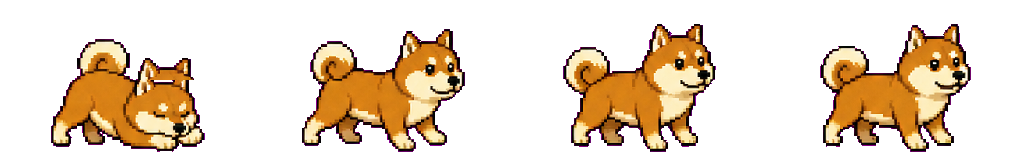
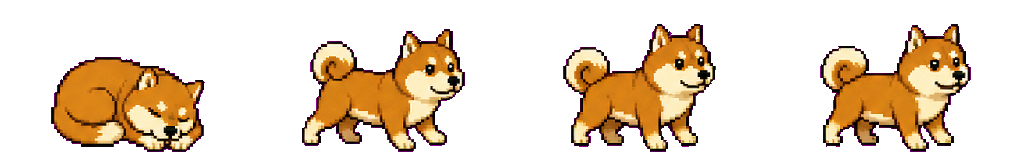
fix: remove overlapping ear from enter animation

Changed region(s): [[0.0312, 0.2188, 0.2188, 0.9688]]

diff --git a/js/main.js b/js/main.js
@@ -53,9 +53,9 @@ document.addEventListener("DOMContentLoaded", () => {
     if (document.querySelector('link[data-desktop-pet-style]')) return;
     const petStyles = document.createElement("link");
     petStyles.rel = "stylesheet";
-    petStyles.href = new URL("css/desktop-pet.css?v=1.8.4", siteRoot).href;
+    petStyles.href = new URL("css/desktop-pet.css?v=1.8.5", siteRoot).href;
     petStyles.dataset.desktopPetStyle = "true";
-    const petModuleUrl = new URL("js/desktop-pet.js?v=1.8.4", siteRoot).href;
+    const petModuleUrl = new URL("js/desktop-pet.js?v=1.8.5", siteRoot).href;
     // 样式就绪后再加载组件，避免慢速网络下未应用 CSS 的桌宠短暂闪现。
     petStyles.addEventListener("load", () => {
       void import(petModuleUrl).catch((error) => console.error(`桌宠模块加载失败：${petModuleUrl}`, error));

diff --git a/js/desktop-pet.js b/js/desktop-pet.js
@@ -148,7 +148,7 @@ var SpriteTransitionController = class {
 };
 
 // ../src/components/DesktopPet/petAssets.ts
-var petAssetVersion = "1.8.4";
+var petAssetVersion = "1.8.5";
 var petAsset = (fileName) => new URL(`../images/pet/${fileName}?v=${petAssetVersion}`, import.meta.url).href;
 var petSprite = (fileName, fps, loop = true, offsetY = 0) => ({
   src: petAsset(fileName),
@@ -176,7 +176,7 @@ var petSprites = {
     visualScale: 0.95
   },
   returnBed: petSprite("shiba-walk-v2.png", 8, true, 0),
-  enterBed: petSprite("shiba-wake.png", 4, false),
+  enterBed: petSprite("shiba-enter.png", 4, false),
   // 窝外互动立即进入与 floorRest 相同尺寸的趴姿，避免原地踏步和旧互动帧尾巴串层。
   react: {
     ...petSprite("shiba-idle.png", 2.4),

diff --git a/src/components/DesktopPet/petAssets.ts b/src/components/DesktopPet/petAssets.ts
@@ -1,6 +1,6 @@
 import type { PetState, SpriteDefinition } from "./types";
 
-const petAssetVersion = "1.8.4";
+const petAssetVersion = "1.8.5";
 const petAsset = (fileName: string): string =>
   new URL(`../images/pet/${fileName}?v=${petAssetVersion}`, import.meta.url).href;
 
@@ -31,7 +31,7 @@ export const petSprites: Readonly<Record<PetState, SpriteDefinition>> = {
     visualScale: 0.95,
   },
   returnBed: petSprite("shiba-walk-v2.png", 8, true, 0),
-  enterBed: petSprite("shiba-wake.png", 4, false),
+  enterBed: petSprite("shiba-enter.png", 4, false),
   // 窝外互动立即进入与 floorRest 相同尺寸的趴姿，避免原地踏步和旧互动帧尾巴串层。
   react: {
     ...petSprite("shiba-idle.png", 2.4),
